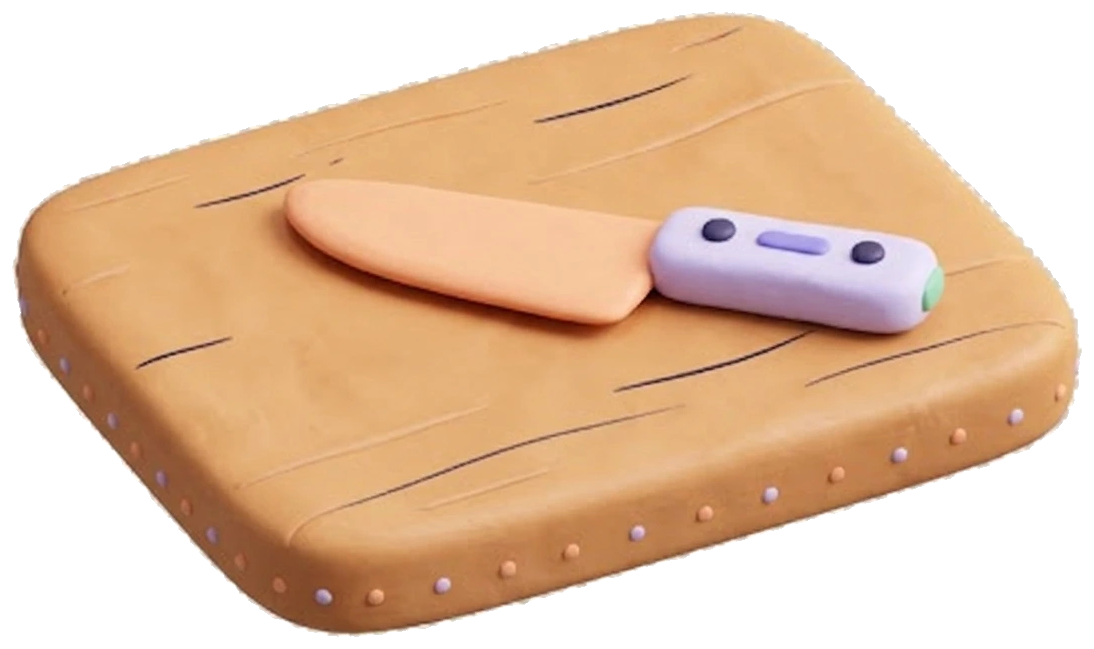
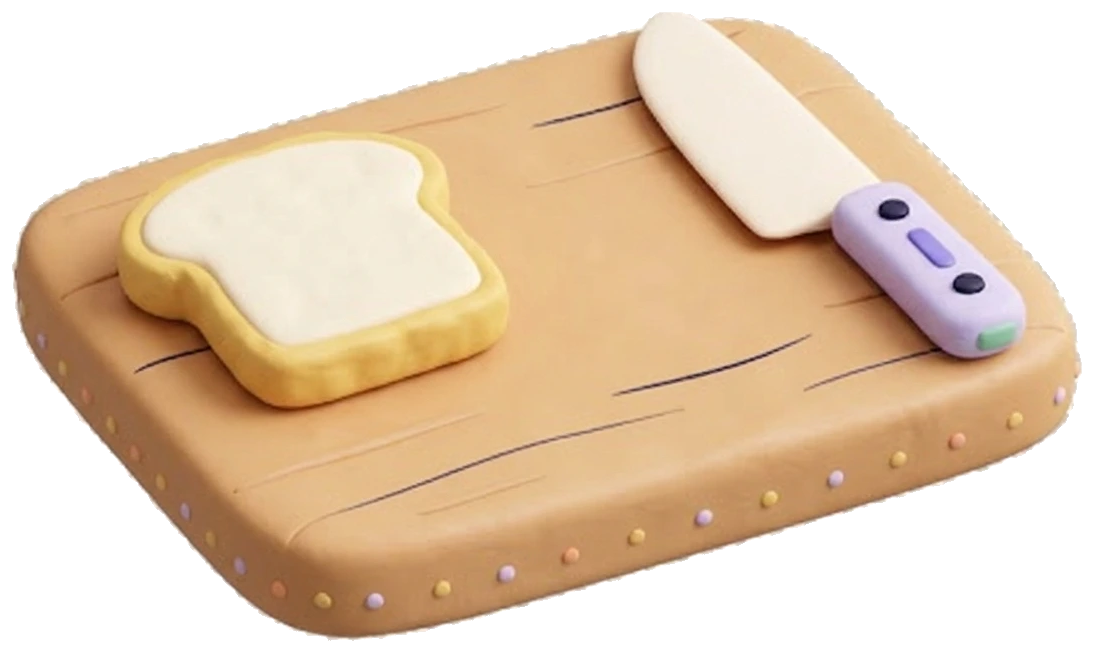
Cook mode: the sandwich board repainted with a slice of bread
The first assemble picture was a board and knife, too close to prep's; the
repaint has a slice of bread on it. Cut out of its painted checkerboard like
the rest.

Claude-Session: https://claude.ai/code/session_01LFPtJnTqJzzZxexmm3HvYK

diff --git a/design/cook/README.md b/design/cook/README.md
@@ -31,10 +31,9 @@ In (2 October 2026), cut out of their painted checkerboard like the first
 eleven: `shake`, `microwave`, `toast`, `airfry`, `chill` (painted as a small
 fridge). These came at about 1024 wide rather than 1536, so their WebPs are
 kept at the size the cut-out came to (up to 720) rather than stretched.
-`assemble` and `pour` followed the same day, the same way. `assemble` came
-with a chef's knife rather than a butter knife, so it is close to `prep` in
-all but colour; a repaint with a butter knife and a slice of bread would tell
-them apart better.
+`assemble` and `pour` followed the same day, the same way. The first
+`assemble` came with only a chef's knife, too close to `prep`; it was
+repainted with a slice of bread on the board, which tells them apart.
 
 | File | Step | Paint |
 |---|---|---|
